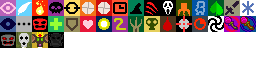
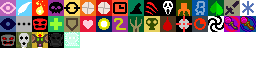
Frost aura wip * Frost aura buff indicator

Changed region(s): [[0.25, 0.5, 0.3125, 0.75]]

diff --git a/PixelDungeon/src/main/java/com/watabou/pixeldungeon/actors/hero/Hero.java b/PixelDungeon/src/main/java/com/watabou/pixeldungeon/actors/hero/Hero.java
@@ -400,10 +400,12 @@ public class Hero extends Char {
 
 		if (buffs(RingOfFrost.FrostAura.class) != null ){
 			int powerLevel = this.belongings.getItem(RingOfFrost.class).level();
-			enemy.damage(powerLevel, this);
-			Buff.affect( enemy, Slow.class, Slow.duration( enemy ) / 5 + powerLevel );
-			if (Random.Int(10) == 1){
-				Buff.affect( enemy, Frost.class, Frost.duration( enemy ) / 5 + powerLevel );
+			if(enemy.isAlive() && enemy != null){
+				Buff.affect( enemy, Slow.class, Slow.duration( enemy ) / 5 + powerLevel );
+				if (Random.Int(10) == 1){
+					Buff.affect( enemy, Frost.class, Frost.duration( enemy ) / 5 + powerLevel );
+				}
+				enemy.damage(powerLevel, this);
 			}
 		}
 

diff --git a/PixelDungeon/src/main/java/com/nyrds/pixeldungeon/items/common/rings/RingOfFrost.java b/PixelDungeon/src/main/java/com/nyrds/pixeldungeon/items/common/rings/RingOfFrost.java
@@ -22,6 +22,7 @@ import com.watabou.noosa.Game;
 import com.watabou.pixeldungeon.items.rings.Artifact;
 import com.watabou.pixeldungeon.items.rings.Ring;
 import com.watabou.pixeldungeon.sprites.ItemSpriteSheet;
+import com.watabou.pixeldungeon.ui.BuffIndicator;
 
 public class RingOfFrost extends Artifact {
 
@@ -37,5 +38,14 @@ public class RingOfFrost extends Artifact {
 	}
 
 	public class FrostAura extends ArtifactBuff {
+		@Override
+		public int icon() {
+			return BuffIndicator.FROSTAURA;
+		}
+
+		@Override
+		public String toString() {
+			return Game.getVar(R.string.FrostAura_Buff);
+		}
 	}
 }

diff --git a/PixelDungeon/src/main/java/com/watabou/pixeldungeon/ui/BuffIndicator.java b/PixelDungeon/src/main/java/com/watabou/pixeldungeon/ui/BuffIndicator.java
@@ -69,6 +69,7 @@ public class BuffIndicator extends Component {
 	public static final int RAT_SKULL   = 33;
 	public static final int RATTNESS    = 34;
 	public static final int DARKVEIL    = 35;
+	public static final int FROSTAURA   = 36;
 
 	
 	public static final int SIZE	= 7;
